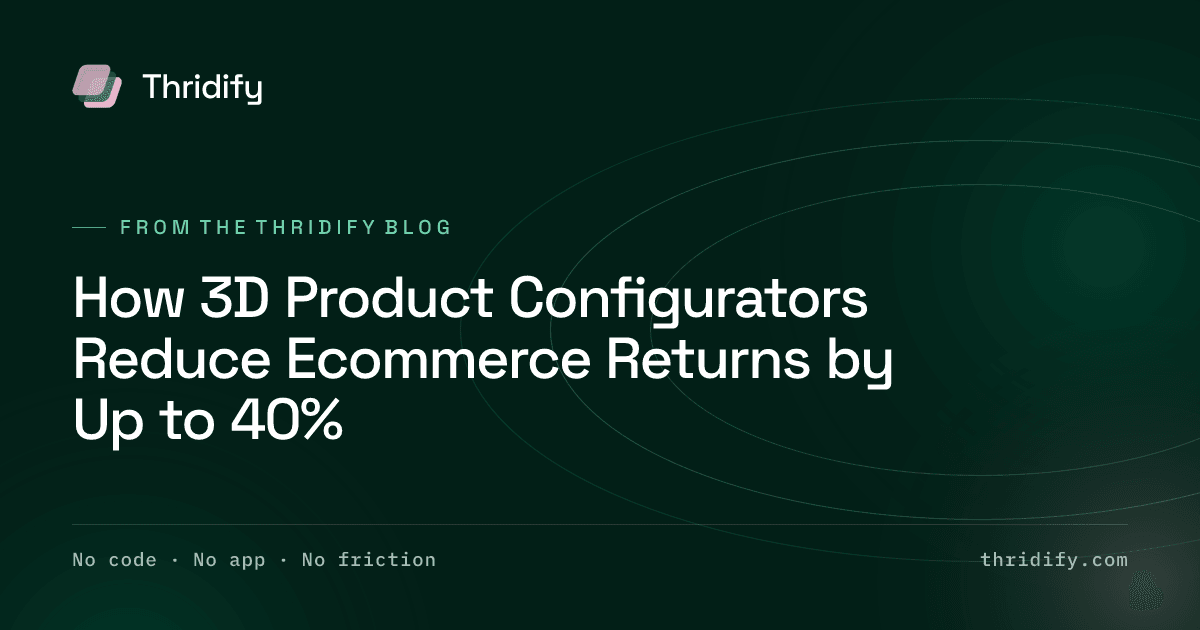
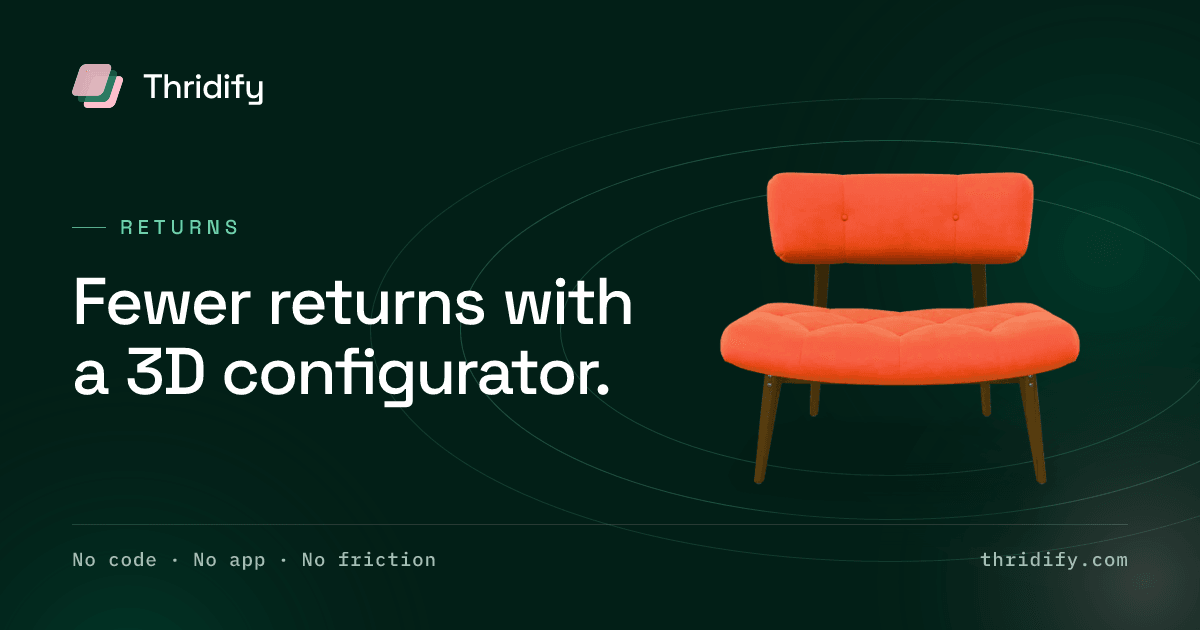
fix(seo): CR leftovers from #27 (WCR-010/013/016/017/023)
- WCR-013/017: 27 more Wix blog images rehosted under /blog-images and the
  returns post's cover. The blog data update points posts at these files,
  so this must be live first.
- WCR-023: /blog left out of sitemap-pages.xml (the platform lists it).
- WCR-016: /gallery gets a canonical and an h1 (it stays noindex).
- WCR-010: the decorative /about logo marks are aria-hidden.

Replaces the rest of #27, whose other changes landed in #28-#31.

diff --git a/src/app/gallery/page.tsx b/src/app/gallery/page.tsx
@@ -25,6 +25,7 @@ import { ProofCard } from '@/components/signature/ProofCard';
 export const metadata: Metadata = {
   title: 'Component Gallery (internal QA)',
   robots: { index: false, follow: false },
+  alternates: { canonical: '/gallery' },
 };
 
 function Swatch({ name, hex, border = false }: { name: string; hex: string; border?: boolean }) {
@@ -43,6 +44,7 @@ function Swatch({ name, hex, border = false }: { name: string; hex: string; bord
 export default function GalleryPage() {
   return (
     <>
+      <h1 className="sr-only">Component gallery (internal QA)</h1>
       {/* ── Intro ─────────────────────────────────────────────────────── */}
       <section className="section">
         <div className="container-x">

diff --git a/src/app/sitemap-pages.xml/route.ts b/src/app/sitemap-pages.xml/route.ts
@@ -39,11 +39,18 @@ function escapeXml(value: string): string {
     .replace(/'/g, "&apos;");
 }
 
+/** Paths the platform's content sitemap already lists. */
+const PLATFORM_LISTED_PATHS = new Set(["/blog"]);
+
 export function GET(): Response {
   // No <lastmod>: the site has no per-page change dates, and the build date
   // would tell Google every page changed on every deploy.
 
   const urls = getSiteRoutes()
+    // /blog is served by the Tyashin platform's blog plugin, which lists it in
+    // /sitemap-content.xml. Listing it here too made it the one URL in both
+    // sitemaps (WCR-023).
+    .filter((route) => !PLATFORM_LISTED_PATHS.has(route.path))
     .map((route) => {
       const loc = escapeXml(`${ORIGIN}${route.path}`);
       return [

diff --git a/src/app/about/page.tsx b/src/app/about/page.tsx
@@ -48,6 +48,7 @@ export default function AboutPage() {
               <Image
                 src="/brand/logo-mark.png"
                 alt=""
+                aria-hidden
                 width={600}
                 height={600}
                 unoptimized
@@ -105,6 +106,7 @@ export default function AboutPage() {
               <Image
                 src="/brand/logo-mark.png"
                 alt=""
+                aria-hidden
                 width={600}
                 height={600}
                 unoptimized
